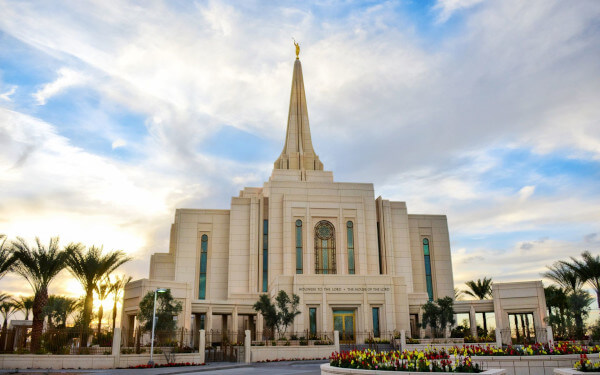
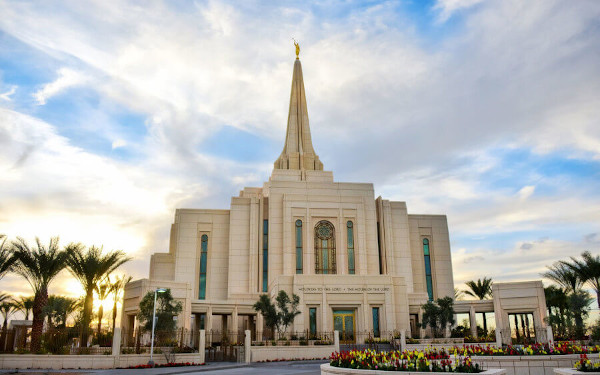
changed chosen temple images. Updated chosen temple in large view

diff --git a/temple-inn/index.html b/temple-inn/index.html
@@ -86,32 +86,35 @@
 
             <picture>
                 <source media="(max-width:45rem)" srcset="images/chosen-temple/gilbert-arizona-temple-400.jpeg">
-                <source media="(max-width:64rem)" srcset="images/chosen-temple/gilbert-arizona-temple-600.jpeg">
-                <source media="(min-width:65rem)" srcset="images/chosen-temple/gilbert-arizona-temple-900.jpeg">
-                <img src="images/chosen-temple/gilbert-arizona-temple-900.jpeg" alt="chosen temple">
+                <source media="(max-width:64rem)" srcset="images/chosen-temple/gilbert-arizona-temple-500.jpeg">
+                <source media="(min-width:65rem)" srcset="images/chosen-temple/gilbert-arizona-temple-600.jpeg">
+                <img src="images/chosen-temple/gilbert-arizona-temple-600.jpeg" alt="chosen temple">
             </picture>
 
-            <div>
-                <h3>Address</h3>
-                <p>3301 S Greenfield Rd</p>
-                <p>Gilbert AZ 85297</p>
-                <p>United States</p>
+            <div class="temple-info">
+                <div>
+                    <h3>Address</h3>
+                    <p>3301 S Greenfield Rd</p>
+                    <p>Gilbert AZ 85297</p>
+                    <p>United States</p>
+                </div>
+
+
+                <div>
+                    <h3>Telephone</h3>
+                    <p>(1) 480-822-5000</p>
+                </div>
+
+
+                <div>
+                    <h3>Services</h3>
+                    <p>Clothing rental available</p>
+                    <p>No cafeteria available</p>
+                    <p>No patron housing available</p>
+                    <p>Distribution center nearby</p>
+                </div>
             </div>
 
-
-            <div>
-                <h3>Telephone</h3>
-                <p>(1) 480-822-5000</p>
-            </div>
-
-
-            <div>
-                <h3>Services</h3>
-                <p>Clothing rental available</p>
-                <p>No cafeteria available</p>
-                <p>No patron housing available</p>
-                <p>Distribution center nearby</p>
-            </div>
 
         </div>
 

diff --git a/temple-inn/styles/large.css b/temple-inn/styles/large.css
@@ -22,13 +22,24 @@
         font-size: 20px;
         padding: 0.5rem 1rem;
     }
+
+    header #primaryNav.open {
+        display: flex;
+    }
+
+    /* Main: Home */
+
+    /* chosen temple */
+    main div.chosen-temple {
+        display: grid;
+        grid-template-columns: repeat(2, 1fr);
+        gap: 1em;
+    }
+
+    main div.chosen-temple h2 {
+        grid-row: 1;
+        grid-column: 1 / -1;
+    }
+
    
-  header #primaryNav.open {
-    display: flex;
-  }
-
-/* Main: Home */
-
-
-
-   }
+}
